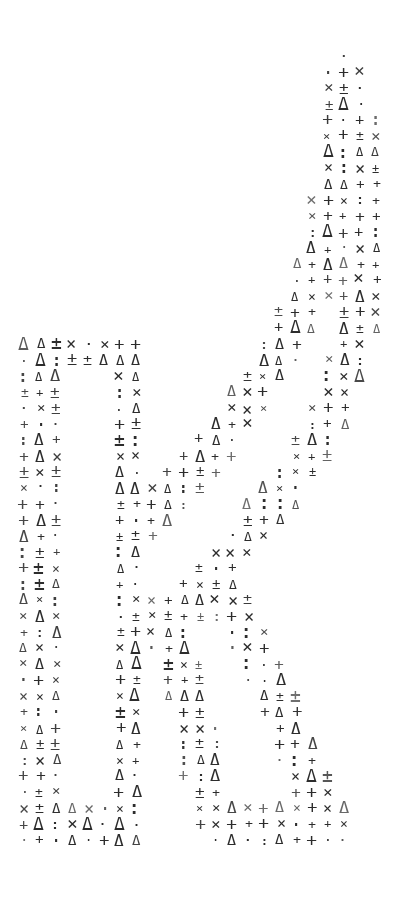
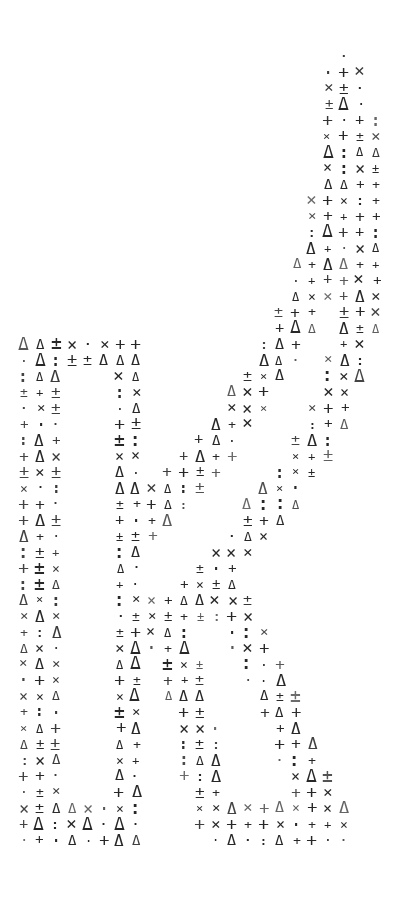
puuuuuu

diff --git a/main.js b/main.js
@@ -76,11 +76,14 @@
     if (chars.length < 12) return;
     var kChar = chars[7];
     kChar.classList.add("char--kmark");
-    kChar.innerHTML = '<img src="assets/brand/k-mark.png?v=3" alt="">';
+    // width/height are required: without an intrinsic ratio the browser
+    // reserves no space until the PNG decodes and the name visibly reflows.
+    kChar.innerHTML = '<img src="assets/brand/k-mark.png?v=3" alt="" width="407" height="900">';
     if (kChar.parentNode) kChar.parentNode.classList.add("char-clip--kmark");
     var trace = doc.querySelector(".wordmark--trace");
     if (trace) {
-      trace.innerHTML = 'Etienne<img class="wordmark__kmark-trace" src="assets/brand/k-mark.png?v=3" alt="">ainz';
+      trace.innerHTML = 'Etienne<img class="wordmark__kmark-trace" src="assets/brand/k-mark.png?v=3" ' +
+        'alt="" width="407" height="900">ainz';
     }
   })();
 
@@ -506,17 +509,31 @@
             duration: 0.26,
             ease: "power2.inOut"
           }, 0.06)
-          // The mark converts to field notation: each stage swaps more of
-          // the solid artwork for glyph dust, blending long and gently.
-          .to(kFrames[0], { opacity: 0, duration: 0.07, ease: "none" }, 0.24)
-          .to(kFrames[1], { opacity: 1, duration: 0.06, ease: "none" }, 0.235)
-          .to(kFrames[1], { opacity: 0, duration: 0.07, ease: "none" }, 0.305)
-          .to(kFrames[2], { opacity: 1, duration: 0.06, ease: "none" }, 0.3)
-          .to(kFrames[2], { opacity: 0, duration: 0.07, ease: "none" }, 0.37)
-          .to(kFrames[3], { opacity: 1, duration: 0.06, ease: "none" }, 0.365)
-          .to(kFrames[3], { opacity: 0, duration: 0.09, ease: "power1.in" }, 0.44)
           // The dust keeps drifting up as it converts into the live field.
-          .to(kLogo, { y: "-=28", scale: "+=0.05", duration: 0.27, ease: "none" }, 0.24);
+          .to(kLogo, { y: "-=30", scale: "+=0.06", duration: 0.34, ease: "none" }, 0.23);
+
+        // The mark converts to field notation through overlapping
+        // crossfades: every layer is already rising before the one beneath
+        // it has finished falling, so no single step is ever visible.
+        var kDissolveStart = 0.23;
+        var kStep = 0.062;
+        var kFade = kStep * 1.7;
+        for (var kIndex = 0; kIndex < kFrames.length; kIndex += 1) {
+          var enter = kDissolveStart + (kIndex - 1) * kStep;
+          var leave = kDissolveStart + kIndex * kStep;
+          if (kIndex > 0) {
+            openingTimeline.fromTo(kFrames[kIndex], { opacity: 0 }, {
+              opacity: 1,
+              duration: kFade,
+              ease: "sine.inOut"
+            }, enter);
+          }
+          openingTimeline.to(kFrames[kIndex], {
+            opacity: 0,
+            duration: kIndex === kFrames.length - 1 ? kFade * 1.5 : kFade,
+            ease: kIndex === kFrames.length - 1 ? "sine.in" : "sine.inOut"
+          }, leave);
+        }
       }
     }
 

diff --git a/index.html b/index.html
@@ -13,10 +13,11 @@
   <meta property="og:image" content="https://etiennekainz.com/assets/brand/k-logo.jpg">
   <title>Etienne Kainz — Mechanical Engineering</title>
   <link rel="icon" type="image/jpeg" href="assets/brand/k-logo.jpg">
+  <link rel="preload" as="image" href="assets/brand/k-mark.png?v=3" fetchpriority="high">
   <link rel="preconnect" href="https://fonts.googleapis.com">
   <link rel="preconnect" href="https://fonts.gstatic.com" crossorigin>
   <link href="https://fonts.googleapis.com/css2?family=IBM+Plex+Mono:wght@400;500&amp;family=Space+Grotesk:wght@400;500;600&amp;display=swap" rel="stylesheet">
-  <link rel="stylesheet" href="styles.css?v=14">
+  <link rel="stylesheet" href="styles.css?v=15">
 </head>
 <body class="home-page is-loading">
   <a class="skip-link" href="#main">Skip to content</a>
@@ -90,10 +91,12 @@
           <div class="wordmark wordmark--trace" aria-hidden="true">EtienneKainz</div>
         </div>
         <div class="hero__klogo" aria-hidden="true">
-          <img src="assets/brand/k-mark.png?v=3" alt="">
-          <img src="assets/brand/k-dissolve-1.png?v=4" alt="">
-          <img src="assets/brand/k-dissolve-2.png?v=4" alt="">
-          <img src="assets/brand/k-dissolve-3.png?v=4" alt="">
+          <img src="assets/brand/k-mark.png?v=3" alt="" width="407" height="900">
+          <img src="assets/brand/k-dissolve-1.png?v=5" alt="" width="407" height="900">
+          <img src="assets/brand/k-dissolve-2.png?v=5" alt="" width="407" height="900">
+          <img src="assets/brand/k-dissolve-3.png?v=5" alt="" width="407" height="900">
+          <img src="assets/brand/k-dissolve-4.png?v=5" alt="" width="407" height="900">
+          <img src="assets/brand/k-dissolve-5.png?v=5" alt="" width="407" height="900">
         </div>
         <div class="hero__subline" data-reveal="rise">
           <p>Mechanical Engineering — TU Wien · Design / CFD / Propulsion / Structures</p>
@@ -429,7 +432,7 @@
   <script src="https://cdn.jsdelivr.net/npm/lenis@1.1.20/dist/lenis.min.js"></script>
   <script src="project-data.js?v=3"></script>
   <script src="quantum-field.js?v=16"></script>
-  <script src="main.js?v=11"></script>
+  <script src="main.js?v=12"></script>
   <script src="elastic-wave.js?v=1"></script>
 </body>
 </html>

diff --git a/styles.css b/styles.css
@@ -763,12 +763,15 @@ img {
 }
 
 /* The brand mark replaces the K glyph inside the wordmark itself. */
+/* The mark reads as the K of "Kainz": open space before it, tight to the
+   "a" that follows, so the name groups Etienne / Kainz. */
 .char--kmark img,
 .wordmark__kmark-trace {
   display: inline-block;
   width: auto;
   height: .9em;
-  margin: 0 .025em;
+  margin: 0 -.028em 0 .085em;
+  vertical-align: baseline;
   transform: translateY(.065em);
 }
 

diff --git a/aerial.html b/aerial.html
@@ -10,7 +10,7 @@
   <link rel="preconnect" href="https://fonts.googleapis.com">
   <link rel="preconnect" href="https://fonts.gstatic.com" crossorigin>
   <link href="https://fonts.googleapis.com/css2?family=IBM+Plex+Mono:wght@400;500&amp;family=Space+Grotesk:wght@400;500;600&amp;display=swap" rel="stylesheet">
-  <link rel="stylesheet" href="styles.css?v=14">
+  <link rel="stylesheet" href="styles.css?v=15">
 </head>
 <body class="gallery-page aerial-page">
   <a class="skip-link" href="#galleryMain">Skip to content</a>
@@ -108,6 +108,6 @@
   <script src="https://cdn.jsdelivr.net/npm/gsap@3.12.5/dist/ScrollTrigger.min.js"></script>
   <script src="https://cdn.jsdelivr.net/npm/lenis@1.1.20/dist/lenis.min.js"></script>
   <script src="quantum-field.js?v=16"></script>
-  <script src="main.js?v=11"></script>
+  <script src="main.js?v=12"></script>
 </body>
 </html>

diff --git a/drawings.html b/drawings.html
@@ -10,7 +10,7 @@
   <link rel="preconnect" href="https://fonts.googleapis.com">
   <link rel="preconnect" href="https://fonts.gstatic.com" crossorigin>
   <link href="https://fonts.googleapis.com/css2?family=IBM+Plex+Mono:wght@400;500&amp;family=Space+Grotesk:wght@400;500;600&amp;display=swap" rel="stylesheet">
-  <link rel="stylesheet" href="styles.css?v=14">
+  <link rel="stylesheet" href="styles.css?v=15">
 </head>
 <body class="gallery-page drawings-page">
   <a class="skip-link" href="#galleryMain">Skip to content</a>
@@ -135,6 +135,6 @@
   <script src="https://cdn.jsdelivr.net/npm/gsap@3.12.5/dist/ScrollTrigger.min.js"></script>
   <script src="https://cdn.jsdelivr.net/npm/lenis@1.1.20/dist/lenis.min.js"></script>
   <script src="quantum-field.js?v=16"></script>
-  <script src="main.js?v=11"></script>
+  <script src="main.js?v=12"></script>
 </body>
 </html>